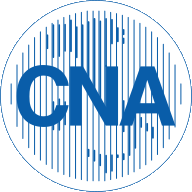
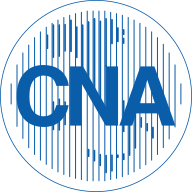
fix: icone e manifest copiati 1:1 da cna-roma-dashboard
- apple-touch-icon.png: file identico al repo dashboard (md5 uguale)
- favicon.ico, favicon-32.png, icon-*.png, icon.svg: stessi file del dashboard
- manifest.json: struttura identica (purpose: any maskable, background #F1F5F9)
- apple-touch-icon senza attributo sizes= (come dashboard)
- vercel.json semplificato come dashboard

diff --git a/index.html b/index.html
@@ -12,7 +12,7 @@
 <link rel="icon" type="image/png" sizes="32x32" href="favicon-32.png">
 <link rel="icon" type="image/svg+xml" href="icon.svg">
 <!-- PWA / icona mobile iOS -->
-<link rel="apple-touch-icon" sizes="180x180" href="apple-touch-icon.png">
+<link rel="apple-touch-icon" href="apple-touch-icon.png">
 <meta name="apple-mobile-web-app-capable" content="yes">
 <meta name="apple-mobile-web-app-status-bar-style" content="default">
 <meta name="apple-mobile-web-app-title" content="CRM CNA">
